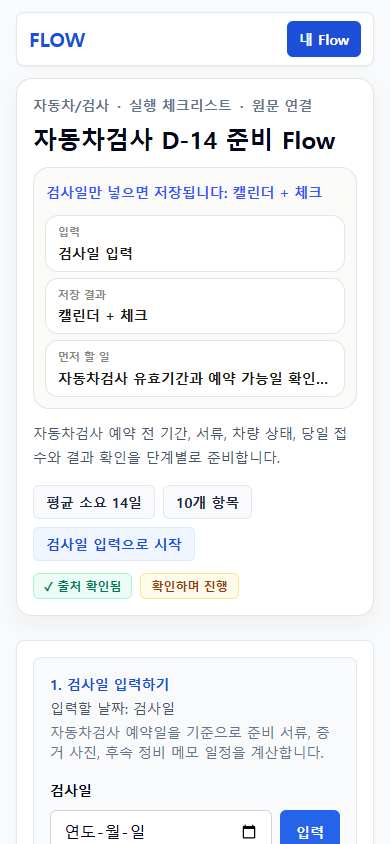
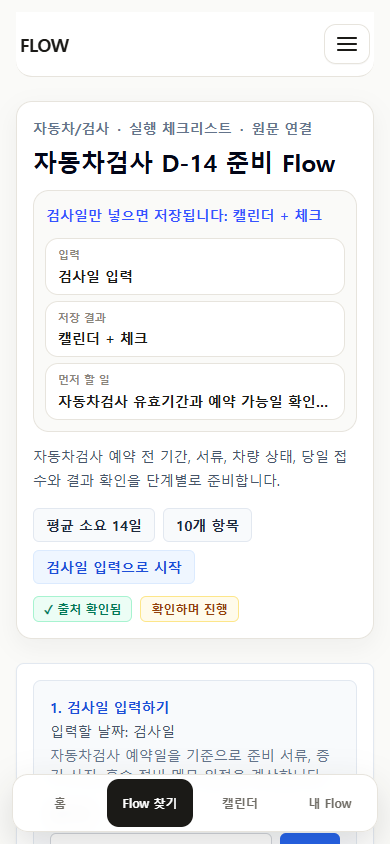
Resolve P3 public flow app shell

diff --git a/components/flow/AppClient.tsx b/components/flow/AppClient.tsx
@@ -8255,22 +8255,9 @@ export function PublicFlow({ slug }: { slug: string }) {
     ) : null;
 
   return (
-    <main className="min-h-screen bg-slate-50 px-4 py-3 pb-28 text-slate-950 md:px-6 md:py-6 md:pb-10">
+    <main className="min-h-screen bg-[#FAFAF8] px-4 py-3 pb-40 text-slate-950 md:px-6 md:py-6 md:pb-10">
       <div className="mx-auto max-w-7xl">
-        <div data-testid="flow-public-shell" className={`mb-3 flex min-h-12 items-center justify-between gap-3 rounded-lg border border-slate-200 bg-white px-3 py-2 shadow-sm md:min-h-14 md:px-4 md:py-3 ${compactJeonsePage ? 'md:mb-3' : 'md:mb-4'}`}>
-          <Link className="text-xl font-black tracking-normal text-blue-700 md:text-2xl" href="/flows" aria-label="FLOW 홈">
-            FLOW
-          </Link>
-          <div className={`${compactJeonsePage ? 'hidden' : 'hidden min-w-0 flex-1 justify-center md:flex'}`}>
-            <div data-testid="flow-public-search" className="flex w-full max-w-md items-center gap-2 rounded-md border border-slate-200 bg-slate-50 px-3 py-2 text-sm text-slate-500">
-              <span aria-hidden="true" className="text-slate-400">⌕</span>
-              <span className="truncate">Flow, 캘린더, 시트, 메모 검색</span>
-            </div>
-          </div>
-          <Link className={compactJeonsePage ? 'rounded-md border border-slate-200 bg-white px-3 py-2 text-sm font-semibold text-slate-700 hover:border-blue-300 hover:text-blue-700' : 'rounded-md bg-blue-700 px-3 py-2 text-sm font-semibold text-white shadow-sm hover:bg-blue-800'} href="/my">
-            내 Flow
-          </Link>
-        </div>
+        <PlatformNav />
 
         <header data-testid="public-flow-hero" className={compactJeonsePage ? 'rounded-lg border border-slate-200 bg-white px-4 py-3 shadow-sm md:px-5 md:py-4' : 'rounded-2xl border border-[#E7E4DD] bg-white px-4 py-4 shadow-[0_8px_24px_rgba(27,26,23,0.05)] md:px-6 md:py-5'}>
           <div className="flex flex-wrap items-center gap-2 text-sm font-semibold text-slate-500">
@@ -8572,7 +8559,7 @@ export function PublicFlow({ slug }: { slug: string }) {
       <div
         data-testid="mobile-export-bar"
         aria-hidden={!showMobileExportActions}
-        className={`fixed inset-x-0 bottom-0 z-20 border-t border-slate-200 bg-white/95 px-4 py-3 shadow-[0_-8px_24px_rgba(15,23,42,0.10)] backdrop-blur transition duration-200 md:hidden ${showMobileExportActions ? 'translate-y-0 opacity-100' : 'pointer-events-none translate-y-full opacity-0'}`}
+        className={`fixed inset-x-4 bottom-[calc(9.75rem+env(safe-area-inset-bottom))] z-20 rounded-2xl border border-[#E7E4DD] bg-white/95 px-4 py-3 shadow-[0_14px_36px_rgba(27,26,23,0.14)] backdrop-blur transition duration-200 md:hidden ${showMobileExportActions ? 'translate-y-0 opacity-100' : 'pointer-events-none translate-y-full opacity-0'}`}
       >
         <div className="mx-auto max-w-5xl">
           <div className="flex items-center gap-3">

diff --git a/docs/content-audit/2026-07-03-claude-design-p0-p2-final-audit-package/review.html b/docs/content-audit/2026-07-03-claude-design-p0-p2-final-audit-package/review.html
@@ -178,6 +178,7 @@
     <a class="chip" href="../2026-07-03-claude-design-action-backlog-ko.md">Backlog source</a>
     <span class="chip green">P0~P2 closed</span>
     <span class="chip green">P3-01 rechecked</span>
+    <span class="chip green">P3-03 app shell</span>
     <span class="chip amber">390px evidence</span>
   </div>
 
@@ -194,7 +195,7 @@
       </div>
       <div class="card">
         <h3>검증 상태</h3>
-        <p>모바일 390px route evidence, P3-01 직접 subset 2건, P0/P2 회귀 subset 6건, full test/docs/build 검증 통과를 확보했다.</p>
+        <p>모바일 390px route evidence, P3-01/P3-02/P3-03 targeted subset, P0/P2 회귀 subset, full test/docs/build 검증 통과를 확보했다.</p>
       </div>
     </div>
   </section>
@@ -231,6 +232,24 @@
       <div class="card">
         <h3>Evidence</h3>
         <p>`route-evidence.json`의 compact checks와 07/08 screenshot을 다시 생성했다.</p>
+      </div>
+    </div>
+  </section>
+
+  <section class="section">
+    <h2>P3-03 공개 Flow 상세 shell 정리</h2>
+    <div class="grid">
+      <div class="card">
+        <h3>정책 결론</h3>
+        <p>`/f/[slug]`는 공유 진입을 허용하지만, 일반 서비스 구조에서는 `Flow 찾기` 아래의 공개 상세 화면으로 본다.</p>
+      </div>
+      <div class="card">
+        <h3>UI 적용</h3>
+        <p>전용 public shell을 제거하고 공통 `PlatformNav`를 붙였다. 모바일에서는 하단 4탭과 `Flow 찾기` active 상태가 보인다.</p>
+      </div>
+      <div class="card">
+        <h3>Fixed layer</h3>
+        <p>public detail의 mobile export bar를 하단 4탭 위로 올려 저장/export 행동과 전역 탭이 겹치지 않게 했다.</p>
       </div>
     </div>
   </section>
@@ -284,7 +303,6 @@
     <table>
       <thead><tr><th>우선순위</th><th>항목</th><th>판단 요청</th></tr></thead>
       <tbody>
-        <tr><td data-label="우선순위" class="risk-medium">Medium</td><td data-label="항목">Public Flow detail app shell</td><td data-label="판단 요청">`/f/vehicle-inspection-prep` 모바일 evidence에서 하단 4탭 nav가 보이지 않는다. 공유 전용 shell로 둘지, app shell에 맞출지 결정이 필요하다.</td></tr>
         <tr><td data-label="우선순위" class="risk-low">Low</td><td data-label="항목">특수 workbench polish</td><td data-label="판단 요청">공통 토큰은 정리됐지만 특수 workbench 일부는 다음 visual QA에서 추가 정리가 필요할 수 있다.</td></tr>
       </tbody>
     </table>

diff --git a/tests/e2e/flow-mvp.spec.ts b/tests/e2e/flow-mvp.spec.ts
@@ -180,6 +180,24 @@ test('main user routes keep the FlowMe design token rhythm', async ({ page }) =>
   await expect(exportButton).toHaveCSS('border-radius', '12px');
 });
 
+test('public flow detail stays inside the Flow finding app shell', async ({ page }) => {
+  await page.setViewportSize({ width: 390, height: 844 });
+  await page.goto('/f/vehicle-inspection-prep');
+
+  await expect(page.getByRole('heading', { name: '자동차검사 D-14 준비 Flow' })).toBeVisible();
+  const mobileTabs = page.getByTestId('platform-mobile-tabs');
+  await expect(mobileTabs).toBeVisible();
+  await expect(mobileTabs.locator('a')).toHaveCount(4);
+  await expect(mobileTabs.getByRole('link', { name: 'Flow 찾기' })).toHaveAttribute('aria-current', 'page');
+  await expect(page.getByTestId('flow-public-shell')).toHaveCount(0);
+  await expectNoInternalUserSurfaceCopy(page.locator('body'));
+
+  await page.evaluate(() => window.scrollTo(0, 700));
+  const mobileExportBar = page.getByTestId('mobile-export-bar');
+  await expect(mobileExportBar).toBeVisible();
+  await expectVerticalGap(mobileExportBar, mobileTabs, 16);
+});
+
 test('curated source cards are integrated into Flow finding and open the recommended Flow', async ({ page }) => {
   await page.goto('/flows');
 
@@ -3388,12 +3406,14 @@ test('public detail rebrand keeps a tool-first shell without mobile overflow', a
   await page.setViewportSize({ width: 1280, height: 900 });
   await page.goto('/f/moving-d30-basic');
 
-  await expect(page.getByTestId('flow-public-shell')).toBeVisible();
-  await expect(page.getByTestId('flow-public-search')).toBeVisible();
+  await expect(page.getByTestId('platform-nav')).toBeVisible();
+  await expect(page.getByTestId('platform-primary-tabs').getByRole('link', { name: 'Flow 찾기' })).toHaveAttribute('aria-current', 'page');
+  await expect(page.getByTestId('flow-public-shell')).toHaveCount(0);
+  await expect(page.getByTestId('flow-public-search')).toHaveCount(0);
   await expect(page.getByLabel('Flow artifact workbench')).toBeVisible();
   await expect(page.getByTestId('flow-desktop-workbench-layout')).toBeVisible();
 
-  const shellBox = await page.getByTestId('flow-public-shell').boundingBox();
+  const shellBox = await page.getByTestId('platform-nav').boundingBox();
   const workbenchBox = await page.getByLabel('Flow artifact workbench').boundingBox();
   expect(shellBox).not.toBeNull();
   expect(workbenchBox).not.toBeNull();

diff --git a/docs/content-audit/2026-07-03-claude-design-p0-p2-final-audit-package/audit.md b/docs/content-audit/2026-07-03-claude-design-p0-p2-final-audit-package/audit.md
@@ -29,9 +29,17 @@
 - Calendar 선택일 카드에서는 모바일 기준 `선택한 날짜`, `0개 루틴`, 단일 일정의 `1개 · 1개 남음` 카운트를 숨겼다.
 - `route-evidence.json`에는 `hasCompactPostSavePanel: true`, `hasCompactAgendaHeader: true`가 기록된다.
 
+## P3-03 공개 Flow 상세 shell 정리
+
+- 결론: `/f/[slug]` 공개 Flow 상세는 공유 링크로 직접 들어올 수 있지만, 일반 앱 구조에서는 `Flow 찾기` 아래의 D2 상세 화면이다.
+- 적용: `/f/[slug]`의 전용 public shell을 제거하고 공통 `PlatformNav`를 렌더한다.
+- 모바일 390px: 하단 4탭이 보이며 `Flow 찾기`가 active 상태로 표시된다.
+- fixed layer: public detail의 mobile export bar는 하단 4탭 위로 올라와 16px 이상 간격을 둔다.
+- `route-evidence.json`에는 `/f/vehicle-inspection-prep`의 `navVisible: true`, `activeMobileTab: "Flow 찾기"`가 기록된다.
+
 ## Route evidence
 
-모바일 390 x 844 viewport에서 route sanity check를 수행했다. 저장 후 route는 `/flow-maps/moving-d30`에서 실제 저장을 수행한 같은 브라우저 컨텍스트로 캡처했다. 모든 route에서 horizontal overflow는 0건이고, ASCII 내부 검토어 스캔 결과는 0건이다. P3-02 이후 `07-post-save-my-flow-mobile.png`와 `08-calendar-after-save-mobile.png`는 compact 화면 기준으로 재생성했다.
+모바일 390 x 844 viewport에서 route sanity check를 수행했다. 저장 후 route는 `/flow-maps/moving-d30`에서 실제 저장을 수행한 같은 브라우저 컨텍스트로 캡처했다. 모든 route에서 horizontal overflow는 0건이고, ASCII 내부 검토어 스캔 결과는 0건이다. P3-02 이후 `07-post-save-my-flow-mobile.png`와 `08-calendar-after-save-mobile.png`는 compact 화면 기준으로 재생성했고, P3-03 이후 `05-public-vehicle-inspection-mobile.png`는 app shell 기준으로 재생성했다.
 
 | Route | 상태 | H1 | Screenshot | 비고 |
 | --- | --- | --- | --- | --- |
@@ -39,7 +47,7 @@
 | `/flows` | clean localStorage | 무엇을 저장할까요? | [02-flows-mobile.png](./screenshots/02-flows-mobile.png) | 통합 카드 목록 유지 |
 | `/flow-maps/moving-d30` | clean localStorage | 원룸 이사 D-30 일정 지도 | [03-flow-map-moving-mobile.png](./screenshots/03-flow-map-moving-mobile.png) | 저장 전 hero 압축 유지 |
 | `/flow-maps/middle-school-math-1` | clean localStorage | 중1 수학 목차 진도표 | [04-flow-map-math-mobile.png](./screenshots/04-flow-map-math-mobile.png) | 날짜 없는 콘텐츠 fallback 유지 |
-| `/f/vehicle-inspection-prep` | clean localStorage | 자동차검사 D-14 준비 Flow | [05-public-vehicle-inspection-mobile.png](./screenshots/05-public-vehicle-inspection-mobile.png) | public single Flow shell은 하단 4탭이 보이지 않음 |
+| `/f/vehicle-inspection-prep` | clean localStorage | 자동차검사 D-14 준비 Flow | [05-public-vehicle-inspection-mobile.png](./screenshots/05-public-vehicle-inspection-mobile.png) | 공통 app shell 사용, `Flow 찾기` active |
 | `/my` | clean localStorage | 내 Flow | [06-my-empty-mobile.png](./screenshots/06-my-empty-mobile.png) | true empty CTA 단일화 |
 | `/my?savedMap=moving-d30` | after saving moving-d30 with 2026-07-22 | 내 Flow | [07-post-save-my-flow-mobile.png](./screenshots/07-post-save-my-flow-mobile.png) | post-save 첫 실행 항목 유지 |
 | `/calendar` | after saving moving-d30 with 2026-07-22 | 캘린더 | [08-calendar-after-save-mobile.png](./screenshots/08-calendar-after-save-mobile.png) | schedule-first agenda 유지 |
@@ -53,7 +61,8 @@
 - P3-01 targeted Playwright subset: 2 passed
 - P3-02 density targeted Playwright subset: 2 passed
 - P3-02 source-backed post-save regression subset: 6 passed
-- P0/P2 regression targeted Playwright subset: 6 passed
+- P3-03 public detail shell/save/export targeted Playwright subset: 8 passed
+- P0/P2 regression targeted Playwright subset: 7 passed
 - P0~P2 final targeted Playwright subset: 9 passed
   - design token rhythm
   - internal operation labels
@@ -72,7 +81,6 @@
 
 | 우선순위 | 항목 | 설명 | 다음 판단 |
 | --- | --- | --- | --- |
-| Medium | Public Flow detail app shell | `/f/vehicle-inspection-prep` route는 모바일 route evidence에서 하단 4탭 nav가 보이지 않았다. 단일 공개 Flow 공유 화면 의도일 수 있으나, 4탭 IA 일관성을 엄격히 보면 다음 루프에서 정책 판단이 필요하다. | Claude Design에게 public detail을 app shell에 맞출지, 공유 전용 shell로 유지할지 확인 요청 |
 | Low | 특수 workbench visual polish | 공통 토큰은 정리됐지만, 일부 특수 workbench/실험성 화면은 기존 slate/blue utility class가 남아 있을 수 있다. 주요 사용자 route 회귀는 발견하지 않았다. | 다음 visual QA에서 범위를 별도 산정 |
 
 ## Claude 재검토 요청

diff --git a/docs/content-audit/2026-07-03-claude-design-p0-p2-final-audit-package/README.md b/docs/content-audit/2026-07-03-claude-design-p0-p2-final-audit-package/README.md
@@ -24,6 +24,14 @@
 - Calendar 선택일 카드에서는 모바일 기준 `선택한 날짜`, `0개 루틴`, 단일 일정의 `1개 · 1개 남음` 카운트를 숨겼다.
 - `route-evidence.json`의 `hasCompactPostSavePanel`, `hasCompactAgendaHeader`로 compact 상태를 확인한다.
 
+## P3-03 공개 Flow 상세 shell 정리
+
+- 결론: `/f/[slug]`는 공유 링크로 직접 들어올 수 있지만, 서비스 구조상 `Flow 찾기` 아래의 공개 상세 화면으로 본다.
+- 적용: 전용 public shell을 제거하고 공통 `PlatformNav`를 사용한다.
+- 모바일: 하단 4탭이 보이고 `Flow 찾기`가 active 상태로 표시된다.
+- fixed layer: public detail의 mobile export bar는 하단 4탭 위로 올라와 겹치지 않는다.
+- `route-evidence.json`에서 `/f/vehicle-inspection-prep`의 `navVisible: true`, `activeMobileTab: "Flow 찾기"`를 확인한다.
+
 ```powershell
 npm.cmd run build
 # 별도 터미널에서 실행한 채 유지
